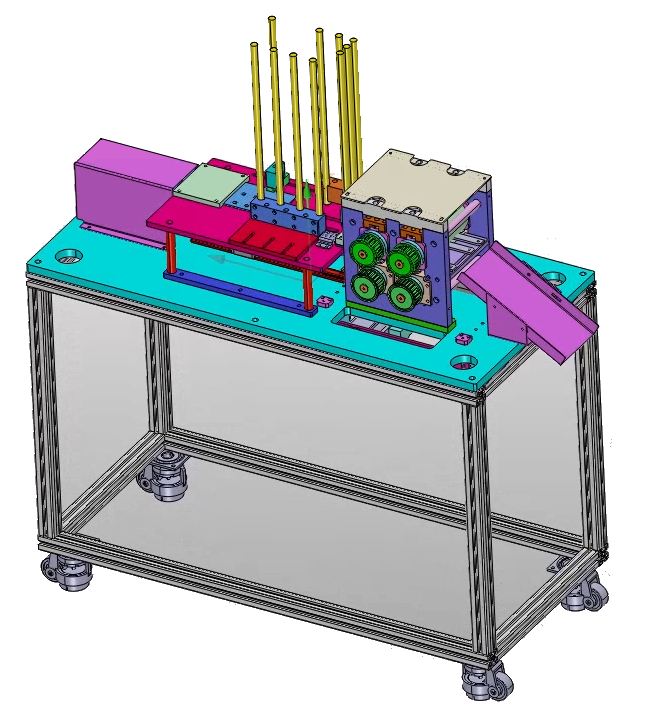
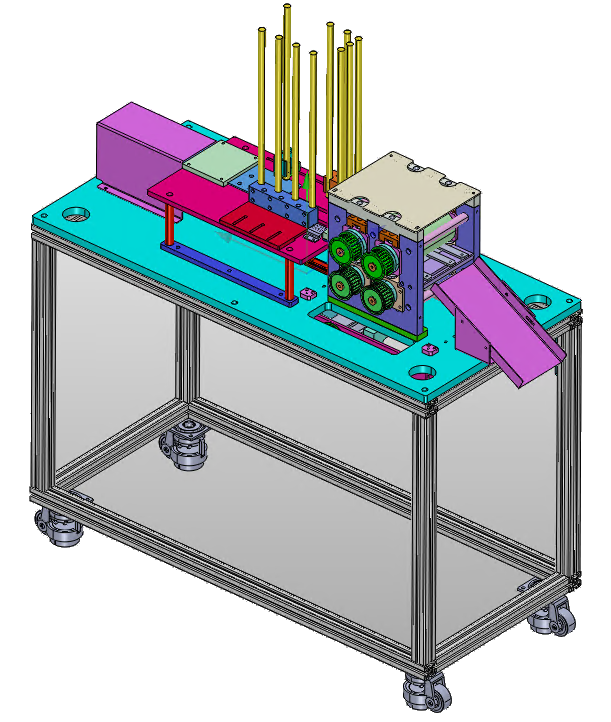
pf

diff --git a/ja/assets/portfolio/mechanical/roller-press-reverse-engineering-20260916/portfolio.html b/ja/assets/portfolio/mechanical/roller-press-reverse-engineering-20260916/portfolio.html
@@ -16,7 +16,7 @@
 <header class="topbar"><div class="wrap nav"><a href="/ja/" class="brand" aria-label="QDM home"><div class="logo">QDM</div><div class="tagline">製品設計・構造解析・薄板成形解析・プレス金型設計<br>QUALITY-DRIVEN DESIGN &amp; MANUFACTURING</div></a><nav class="menu" aria-label="メインメニュー"><a class="hide-sm" href="/ja/about/">会社案内</a><div class="menu-dropdown hide-sm"><a class="menu-dropdown-trigger" href="/ja/services/press-die-design/" aria-haspopup="menu">サービス<span class="menu-dropdown-arrow" aria-hidden="true">▾</span></a><div class="menu-dropdown-panel" role="menu"><a role="menuitem" href="/ja/services/press-die-design/">プレス金型設計</a><a role="menuitem" href="/ja/services/sheet-metal-forming-analysis/">薄板成形解析</a><a role="menuitem" href="/ja/services/structural-analysis/">構造解析</a><a role="menuitem" href="/ja/services/product-design/">製品設計</a><a class="menu-dropdown-all" role="menuitem" href="/ja/portfolio.html">全実績を見る</a></div></div><div class="menu-dropdown hide-sm"><a class="menu-dropdown-trigger" href="/ja/resources/press-die-quotation/" aria-haspopup="menu">資料室<span class="menu-dropdown-arrow" aria-hidden="true">▾</span></a><div class="menu-dropdown-panel resource-menu" role="menu"><a class="resource-primary" role="menuitem" href="/ja/resources/press-die-quotation/">プレス金型 見積書作成ツール</a><a class="resource-subitem" role="menuitem" href="/ja/resources/press-die-quotation/?tool=material">金型材料費算出</a><a class="resource-subitem" role="menuitem" href="/ja/resources/press-die-quotation/?tool=processing">加工費算出</a><a class="resource-primary resource-burring" role="menuitem" href="/ja/resources/press-process-calculators/">プレスバーリング（Burring）計算</a></div></div><a class="hide-sm" href="/ja/blog.html">技術ブログ</a><a href="/ja/#contact">お問い合わせ</a><a class="phone" href="tel:07080646621">☎ +82-70-8064-6621</a></nav></div></header>
 <main>
   <section class="page-hero"><div class="wrap"><div class="breadcrumb">Home / Portfolio / 機械・機構設計</div><h1>ローラープレスのリバースエンジニアリングと部品図の復元</h1><p>既存の組立図と実機を照合し、3D仮想組立で検証する設計図面の復元</p></div></section>
-  <section><div class="wrap detail-grid portfolio-detail"><div class="portfolio-media"><div class="detail-img" role="img" aria-label="ローラープレスのリバースエンジニアリングと部品図の復元" style="background-image:url('/ja/assets/portfolio/mechanical/roller-press-reverse-engineering-20260916/main.jpg')"></div><div class="gallery"><img loading="lazy" src="/ja/assets/portfolio/mechanical/roller-press-reverse-engineering-20260916/equipment.jpg" alt="ローラープレスのリバースエンジニアリングと部品図の復元"><img loading="lazy" src="/ja/assets/portfolio/mechanical/roller-press-reverse-engineering-20260916/031.png" alt="ローラープレスのリバースエンジニアリングと部品図の復元"><img loading="lazy" src="/ja/assets/portfolio/mechanical/roller-press-reverse-engineering-20260916/032.png" alt="ローラープレスのリバースエンジニアリングと部品図の復元"><img loading="lazy" src="/ja/assets/portfolio/mechanical/roller-press-reverse-engineering-20260916/a01.jpg" alt="ローラープレスのリバースエンジニアリングと部品図の復元"><img loading="lazy" src="/ja/assets/portfolio/mechanical/roller-press-reverse-engineering-20260916/a12.jpg" alt="ローラープレスのリバースエンジニアリングと部品図の復元"></div><p class="portfolio-image-note">機密保持のため、詳細寸法およびお客様を特定できる情報は掲載していません。</p></div><div class="detail-box"><span class="badge">機械・機構設計</span><span class="badge">ローラープレス</span><span class="badge">リバースエンジニアリング</span><span class="badge">3Dモデリング</span><span class="badge">図面復元</span><h2>プロジェクト概要</h2><p>ローラープレス（ROLLER PRESS）は、プレス金型で成形した製品をローラーの間に通して加圧し、平坦度と寸法の均一性を整える後加工設備です。製品に必要な後加工工程を担うもので、プレス成形不良の修正を目的とした設備ではありません。対象は、以前に設計・製作され、現在も現場で稼働している装置です。古い組立図のみが残り、詳細部品図は失われていました。残された組立図を読み解き、実機と照合しながら部品を一つずつ3Dモデル化し、仮想組立で検証した内容を2D設計図面へ反映する方法で復元を進めます。</p><h3>実施内容</h3><ul><li>既存組立図の読解：部品の配置と結合関係、ローラーおよび駆動部の構造を把握し、組立図だけでは判断できない箇所を整理します。</li><li>設計者ごとの図面表現の確認：製図規格の問題とは別に、元の設計者によるCADオブジェクトの色、レイヤー、線種、隠れた部品の表現方法を読み解きます。画面上で実線として描かれた箇所も、実際に見える輪郭なのか、他の部品の背後にある形状なのかを区別し、組立関係を理解します。</li><li>実機との照合：図面から読み取った構造を稼働中の装置と照合し、部品形状、配置、結合関係を確認します。図面で不足している情報や不明確な箇所を補います。</li><li>部品ごとの3Dモデリング：組立図と実機から確認した情報を基に部品を一つずつモデル化し、2D図面だけでは把握しにくい形状や位置関係を立体的に検討します。</li><li>3D仮想組立と検証：モデル化した部品を仮想的に組み立て、部品間の結合関係や干渉の有無を検討します。既存の組立図および実機との整合性も確認します。</li><li>2D詳細部品図の復元：仮想組立と実機照合によって検証した部品から2D設計図面を作成し、組立図だけでは不足していた詳細設計情報を段階的に復元します。</li></ul><p><a class="btn primary" href="/ja/#contact">お問い合わせ →</a> <a class="btn secondary" href="/ja/portfolio.html?category=mechanical">同じ分野を見る →</a></p></div></div></section>
+  <section><div class="wrap detail-grid portfolio-detail"><div class="portfolio-media"><div class="detail-img" role="img" aria-label="ローラープレスのリバースエンジニアリングと部品図の復元" style="background-image:url('/ja/assets/portfolio/mechanical/roller-press-reverse-engineering-20260916/main.png')"></div><div class="gallery"><img loading="lazy" src="/ja/assets/portfolio/mechanical/roller-press-reverse-engineering-20260916/equipment.jpg" alt="ローラープレスのリバースエンジニアリングと部品図の復元"><img loading="lazy" src="/ja/assets/portfolio/mechanical/roller-press-reverse-engineering-20260916/031.png" alt="ローラープレスのリバースエンジニアリングと部品図の復元"><img loading="lazy" src="/ja/assets/portfolio/mechanical/roller-press-reverse-engineering-20260916/032.png" alt="ローラープレスのリバースエンジニアリングと部品図の復元"><img loading="lazy" src="/ja/assets/portfolio/mechanical/roller-press-reverse-engineering-20260916/a12.jpg" alt="ローラープレスのリバースエンジニアリングと部品図の復元"></div><p class="portfolio-image-note">機密保持のため、詳細寸法およびお客様を特定できる情報は掲載していません。</p></div><div class="detail-box"><span class="badge">機械・機構設計</span><span class="badge">ローラープレス</span><span class="badge">リバースエンジニアリング</span><span class="badge">3Dモデリング</span><span class="badge">図面復元</span><h2>プロジェクト概要</h2><p>ローラープレス（ROLLER PRESS）は、プレス金型で成形した製品をローラーの間に通して加圧し、平坦度と寸法の均一性を整える後加工設備です。製品に必要な後加工工程を担うもので、プレス成形不良の修正を目的とした設備ではありません。対象は、以前に設計・製作され、現在も現場で稼働している装置です。古い組立図のみが残り、詳細部品図は失われていました。残された組立図を読み解き、実機と照合しながら部品を一つずつ3Dモデル化し、仮想組立で検証した内容を2D設計図面へ反映する方法で復元を進めます。</p><h3>実施内容</h3><ul><li>既存組立図の読解：部品の配置と結合関係、ローラーおよび駆動部の構造を把握し、組立図だけでは判断できない箇所を整理します。</li><li>設計者ごとの図面表現の確認：製図規格の問題とは別に、元の設計者によるCADオブジェクトの色、レイヤー、線種、隠れた部品の表現方法を読み解きます。画面上で実線として描かれた箇所も、実際に見える輪郭なのか、他の部品の背後にある形状なのかを区別し、組立関係を理解します。</li><li>実機との照合：図面から読み取った構造を稼働中の装置と照合し、部品形状、配置、結合関係を確認します。図面で不足している情報や不明確な箇所を補います。</li><li>部品ごとの3Dモデリング：組立図と実機から確認した情報を基に部品を一つずつモデル化し、2D図面だけでは把握しにくい形状や位置関係を立体的に検討します。</li><li>3D仮想組立と検証：モデル化した部品を仮想的に組み立て、部品間の結合関係や干渉の有無を検討します。既存の組立図および実機との整合性も確認します。</li><li>2D詳細部品図の復元：仮想組立と実機照合によって検証した部品から2D設計図面を作成し、組立図だけでは不足していた詳細設計情報を段階的に復元します。</li></ul><p><a class="btn primary" href="/ja/#contact">お問い合わせ →</a> <a class="btn secondary" href="/ja/portfolio.html?category=mechanical">同じ分野を見る →</a></p></div></div></section>
 </main>
 <footer class="footer"><div class="wrap footer-inner"><div>製品設計・構造解析・薄板成形解析・プレス金型設計</div><div>© QDM. All rights reserved.</div></div></footer>
 <script src="/assets/language.js?v=20260816-3"></script>
